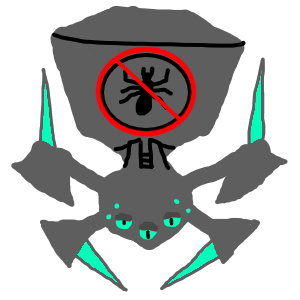
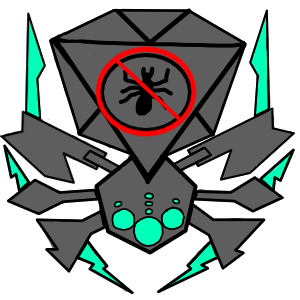
limpieza y agrego de skins

diff --git a/src/promo.html b/src/promo.html
@@ -1,14 +1,14 @@
 <div class="modal-container whats-new-layer">
   <h1>
-    WELCOME
+    WELCOME!!!
   </h1>
-  <h2>Actualizado en: Nov 04 2022</h2>
+  <h2>Actualizado en: Nov 08 2022</h2>
   <ul>
     <li>
       <strong style="color: orange;">- By: AldoRmzCode (<a href="https://github.com/AldoRmzCode" style="color: aqua;">more</a>)</strong>
     </li>
     <li>
-      Ya disponible!!! :)
+      (( VERSION BETA ))
     </li>
     <li>
        "sing up" para ver la tienda
